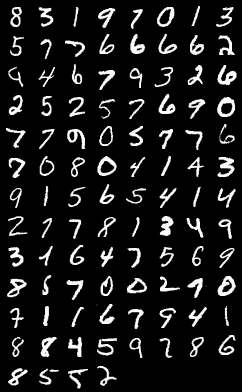
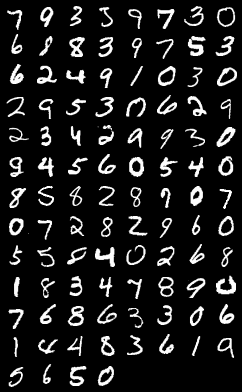
Fixed a bug in loss function, simplified with VAE+GAN (no aux generator). Samples produced but not entirely good looking.

diff --git a/modules_tied.py b/modules_tied.py
@@ -103,7 +103,7 @@ class VAE(nn.Module):
     def forward(self, x):
        mu, logvar = self.encode_new(x.view(-1, 1,28,28))
        z = self.reparameterize(mu, logvar)
-       return mu,logvar
+       return mu,logvar, self.decode_new(z)
         #return mu,logvar
 
 class Aux(nn.Module):
@@ -197,10 +197,10 @@ def get_direct_gradient_penalty(netD, x, gamma, cuda):
 
     
     
-def loss_function(recon_x, x, mu, logvar,bsz=100):
+def loss_function(recon_x, x, mu, logvar):
     #BCE = F.binary_cross_entropy(recon_x.view(-1,784), x.view(-1, 784))
     #MSE = F.mse_loss(recon_x.view(-1,784), x.view(-1,784))
-    MSE = F.mse_loss(recon_x,x)
+    MSE = F.mse_loss(recon_x,x,size_average=False)
 
     # see Appendix B from VAE paper:
     # Kingma and Welling. Auto-Encoding Variational Bayes. ICLR, 2014
@@ -208,6 +208,4 @@ def loss_function(recon_x, x, mu, logvar,bsz=100):
     # 0.5 * sum(1 + log(sigma^2) - mu^2 - sigma^2)
     KLD = -0.5 * torch.sum(1 + logvar - mu.pow(2) - logvar.exp())
     # Normalise by same number of elements as in reconstruction
-    KLD /= bsz * 784
-
     return MSE + KLD
